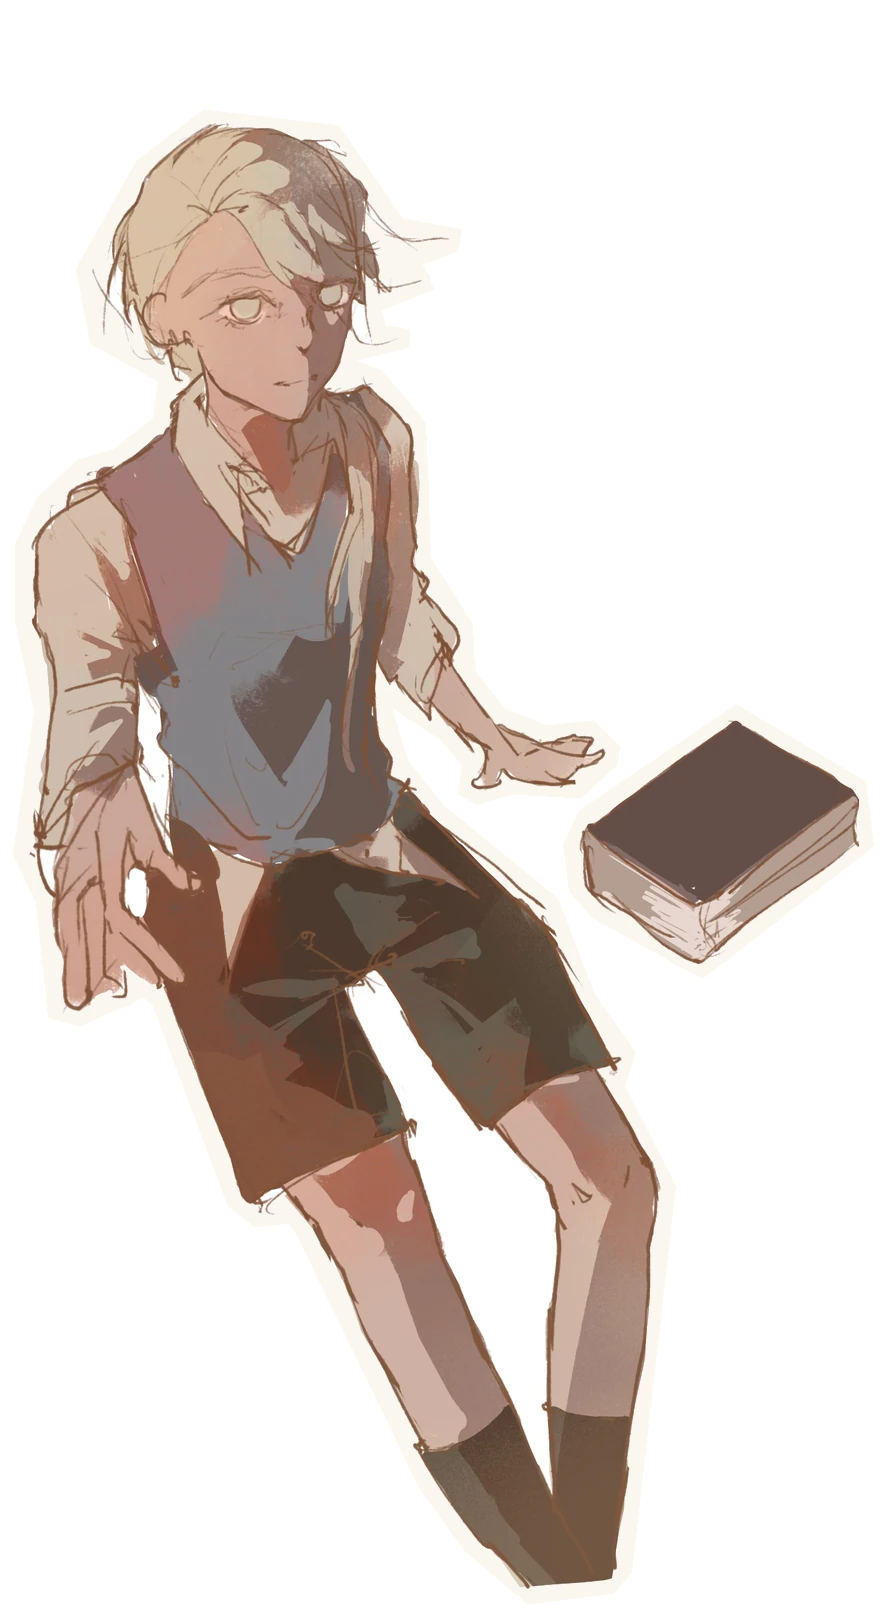
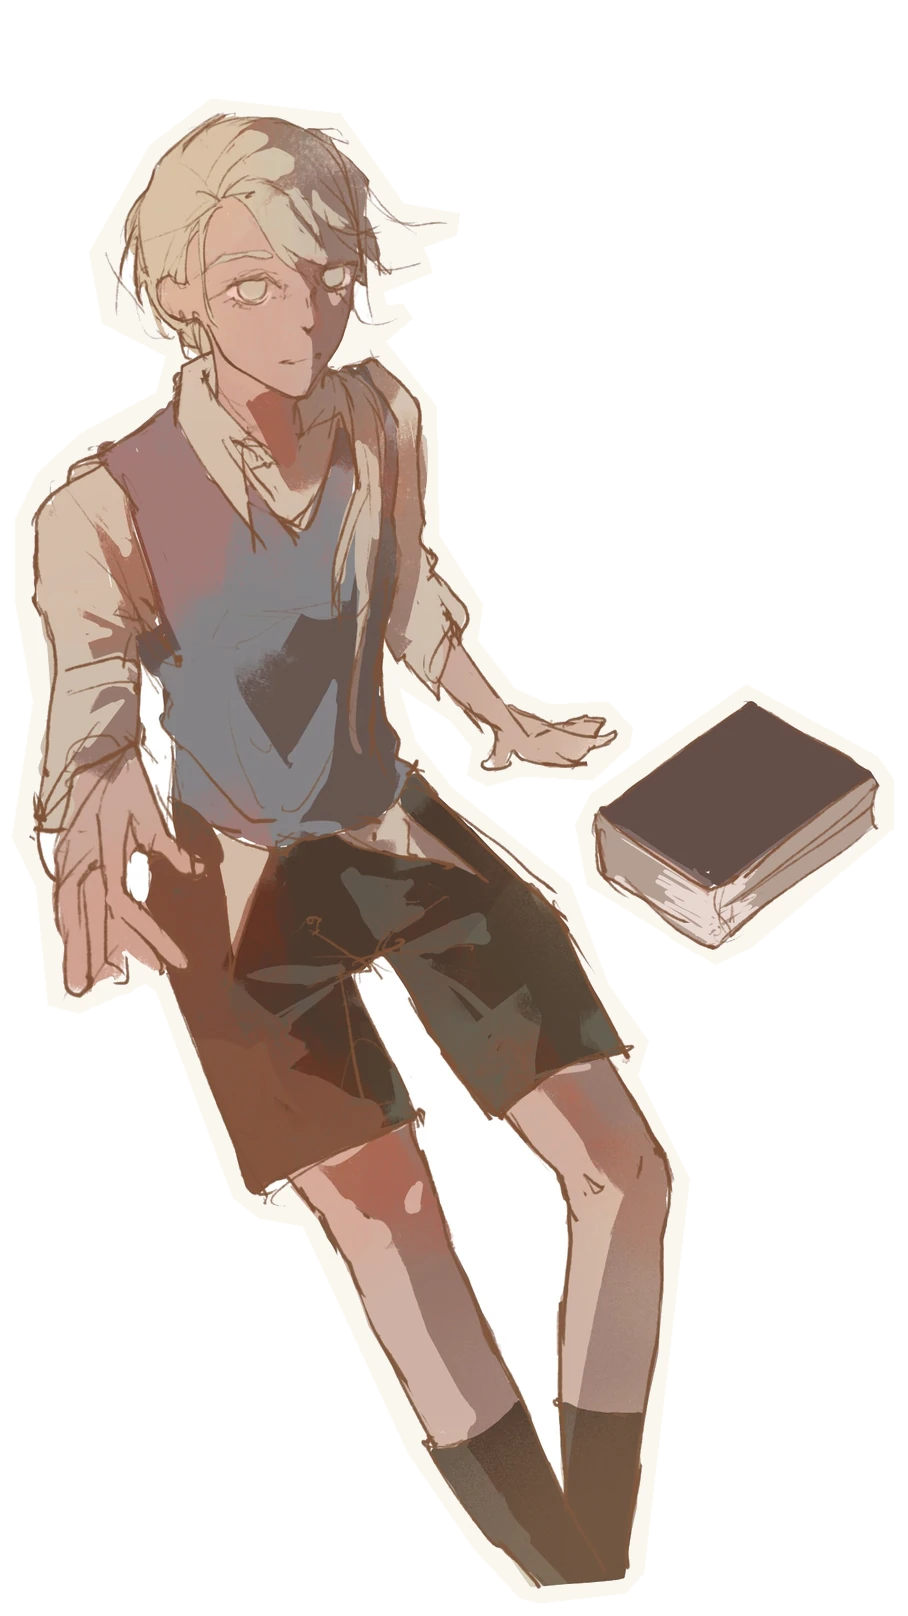
Academy uniforms: new paintings for Iris and Aurelia, cut the standard way; Aurelia's blush re-measured
Claude-Session: https://claude.ai/code/session_01LopHKLE1Hy6BZKLVUBMfVV

diff --git a/characters.html b/characters.html
@@ -1066,8 +1066,8 @@ const ITEMS = {
   /* a dress, not a sticker: it lives in her bag, and she will not put it on */
   ydress:{ owner:"aurelia", name:"黄色礼裙", icon:DRESS_SRC, entry:"ydress", sore:true, found:"helios-ydress-found", says:{} },
   /* outfits swap the standing portrait itself: same scale, same frame */
-  uniform_iris:{ owner:"iris", name:"北方学院制服", icon:UNIFORM_ICON, wear:"top", fig:"images/iris-academy.webp", size:[886,1616], sheet:"iris_academy" },
-  uniform_aurelia:{ owner:"aurelia", name:"北方学院制服", icon:UNIFORM_ICON, wear:"top", fig:"images/aurelia-academy.webp", size:[814,1616], sheet:"aurelia_academy" },
+  uniform_iris:{ owner:"iris", name:"北方学院制服", icon:UNIFORM_ICON, wear:"top", fig:"images/iris-academy.webp?v=2", size:[908,1616], sheet:"iris_academy" },
+  uniform_aurelia:{ owner:"aurelia", name:"北方学院制服", icon:UNIFORM_ICON, wear:"top", fig:"images/aurelia-academy.webp?v=2", size:[814,1616], sheet:"aurelia_academy" },
   /* the Sun King: the crown is her own hand against the light. the engraved sun turns behind her eye */
   corona:{ owner:"aurelia", name:"日冕", icon:CORONA_ICON, wear:"top", fig:"images/aurelia-sun.webp", size:[1086,1616], sun:[.598,.164], sheet:"aurelia_king", says:{} }
 };
@@ -1233,7 +1233,7 @@ function place(id, t){
    ============================================================ */
 const BLUSH={
   /* the classic portrait is concept art: she doesn't drink in it. only the academy one */
-  "images/aurelia-academy.webp":{ l:[42.6,17.9], r:[57.6,17.7], rx:5.0, ry:1.5, mask:"images/aurelia-academy-mask.png" }
+  "images/aurelia-academy.webp?v=2":{ l:[43.9,20.4], r:[57.1,20.0], rx:5.0, ry:1.5, mask:"images/aurelia-academy-mask.png?v=2" }
 };
 const DRINK={ aurelia:[], iris:[], irisAcademy:[], refuse:"", plain:[] };     /* from 台词.md */
 const blushEl=$("#blush"), blushCh=blushEl.querySelector(".ch"), blushNose=blushEl.querySelector(".nose"), blushRose=blushEl.querySelector(".rose");
@@ -1269,7 +1269,7 @@ function drink(id){
     /* Iris drinks only as herself or in the academy uniform; the drape and the tarot are not for drinking.
        the student is used to cheap ale, so the sweet stuff gets a different face */
     if(document.body.classList.contains("skinned")) return false;
-    const src=art.getAttribute("src"), k = src==="images/iris-academy.webp" ? "irisAcademy" : src===PEOPLE.find(p=>p.id==="iris").img ? "iris" : null;
+    const src=art.getAttribute("src"), k = src==="images/iris-academy.webp?v=2" ? "irisAcademy" : src===PEOPLE.find(p=>p.id==="iris").img ? "iris" : null;
     const L=k && DRINK[k]; if(!L || !L.length) return false;
     irisSips[k]=irisSips[k]||0; sayLine(L[Math.min(irisSips[k]++, L.length-1)], "iris");
   }
